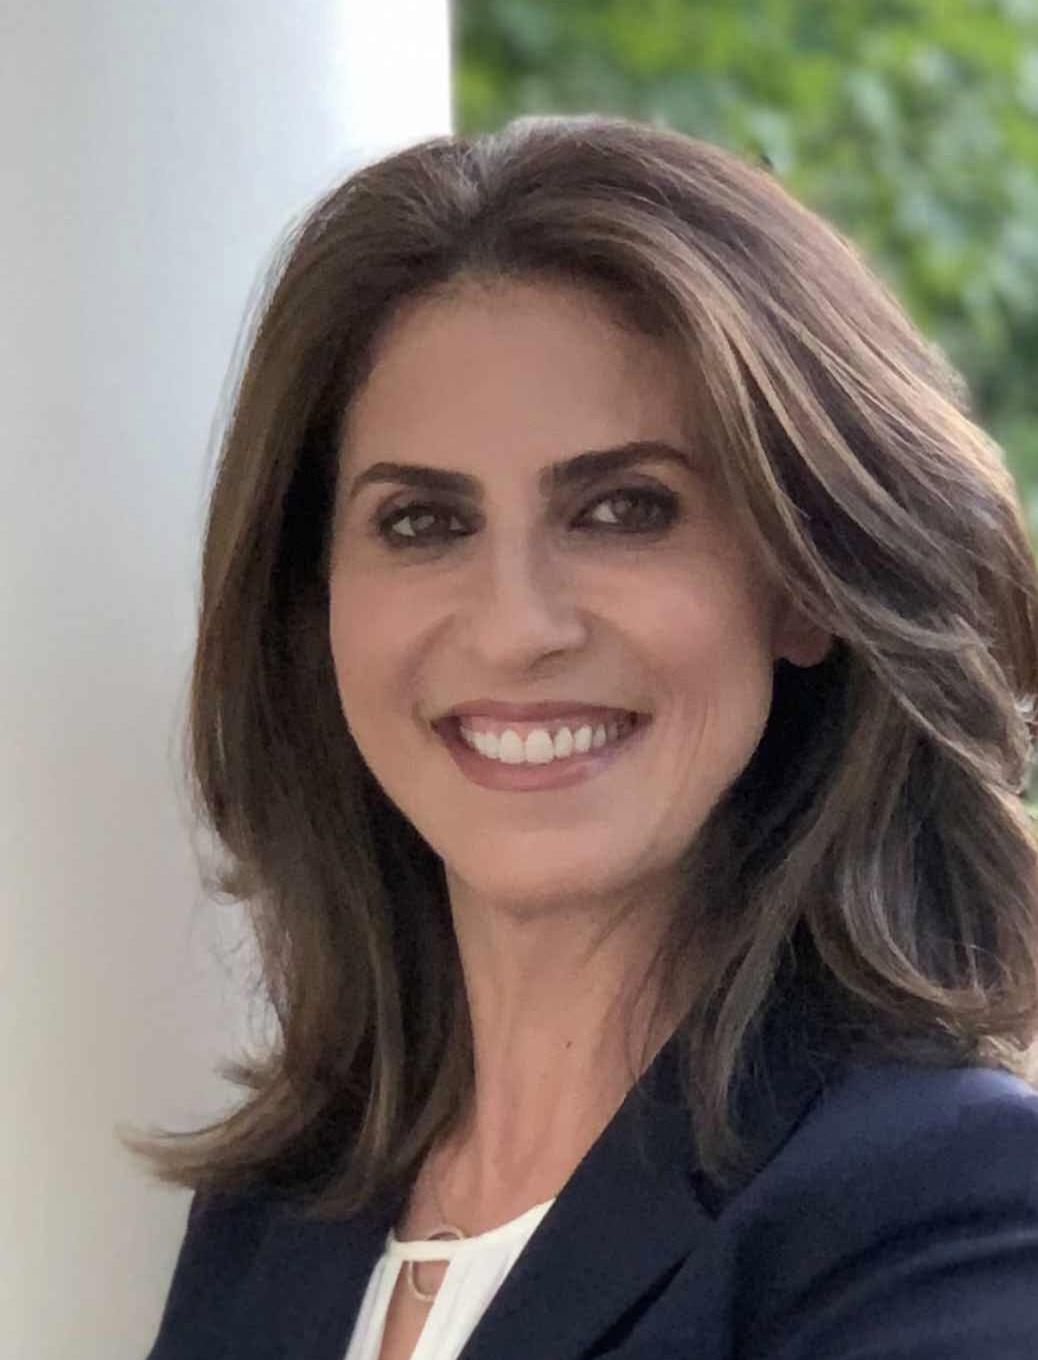
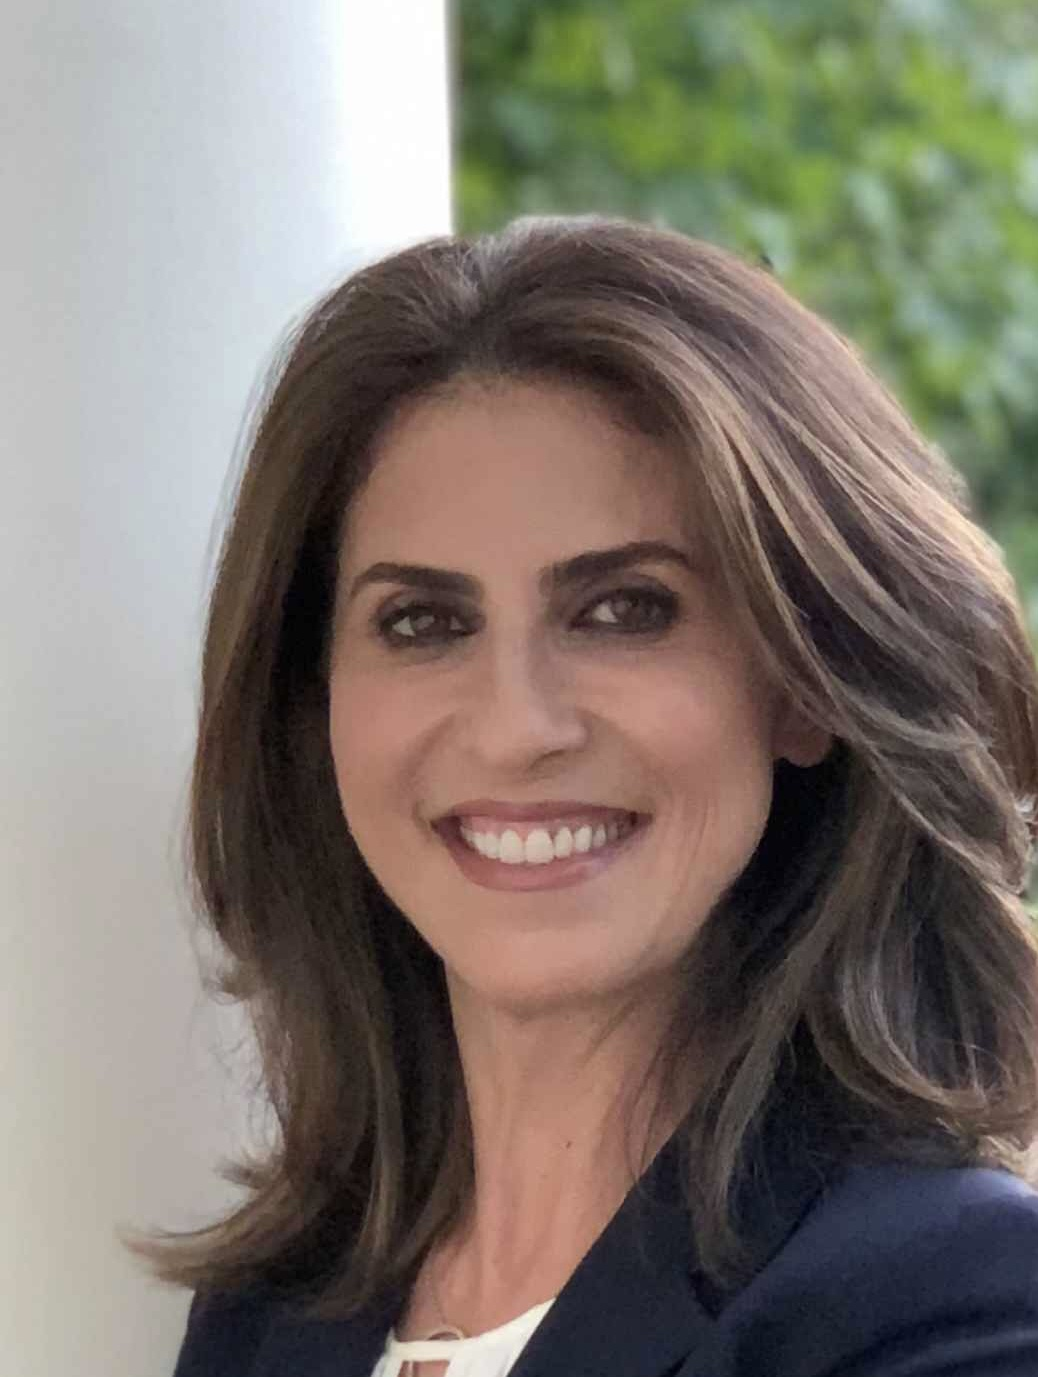
all new edits effected

diff --git a/components/Hero/index.module.css b/components/Hero/index.module.css
@@ -24,8 +24,8 @@
   font-weight: 300;
 }
 .caption > div:first-child {
-  height: calc(0.3 * 1254px);
-  width: calc(0.3 * 1036px);
+  height: calc(0.3 * 1377px);
+  width: calc(0.3 * 1038px);
   /* width: 40%; */
   position: relative;
 }
@@ -101,23 +101,23 @@
     width: 93%;
   }
   .caption > div:first-child {
-    height: calc(0.28 * 1254px);
-    width: calc(0.28 * 1036px);
-    max-width: calc(0.28 * 1036px);
+    height: calc(0.28 * 1377px);
+    width: calc(0.28 * 1038px);
+    max-width: calc(0.28 * 1038px);
     flex: 40%;
   }
 }
 @media screen and (max-width: 837px) {
   .caption > div:first-child {
-    height: calc(0.28 * 1254px);
-    width: calc(0.28 * 1036px);
+    height: calc(0.28 * 1377px);
+    width: calc(0.28 * 1038px);
     flex: 40%;
   }
 }
 @media screen and (max-width: 730px) {
   .caption > div:first-child {
-    height: calc(0.25 * 1254px);
-    width: calc(0.25 * 1036px);
+    height: calc(0.25 * 1377px);
+    width: calc(0.25 * 1038px);
     width: 45%;
   }
   .caption > div:nth-child(2) {
@@ -148,8 +148,8 @@
     display: block;
   }
   .caption > div:first-child {
-    height: calc(0.21 * 1254px);
-    width: calc(0.21 * 1036px);
+    height: calc(0.21 * 1377px);
+    width: calc(0.21 * 1038px);
     max-width: 100%;
     position: relative;
     display: block;
@@ -177,8 +177,8 @@
     padding: 70px 0;
   }
   .caption > div:first-child {
-    height: calc(0.2 * 1254px);
-    width: calc(0.2 * 1036px);
+    height: calc(0.2 * 1377px);
+    width: calc(0.2 * 1038px);
     max-width: 100%;
   }
 }
@@ -190,8 +190,8 @@
     padding: 70px 0;
   }
   .caption > div:first-child {
-    height: calc(0.17 * 1254px);
-    width: calc(0.17 * 1036px);
+    height: calc(0.17 * 1377px);
+    width: calc(0.17 * 1038px);
   }
 }
 @media screen and (max-width: 320px) {

diff --git a/components/Hero/index.tsx b/components/Hero/index.tsx
@@ -1,5 +1,5 @@
 import banner2 from "../../public/images/shutter1_11zon.jpg";
-import headshot from "../../public/images/headshot2.jpeg";
+import headshot from "../../public/images/headshot_11zon.jpeg";
 import Image from "next/image";
 import styles from "./index.module.css";
 import Link from "next/link";
